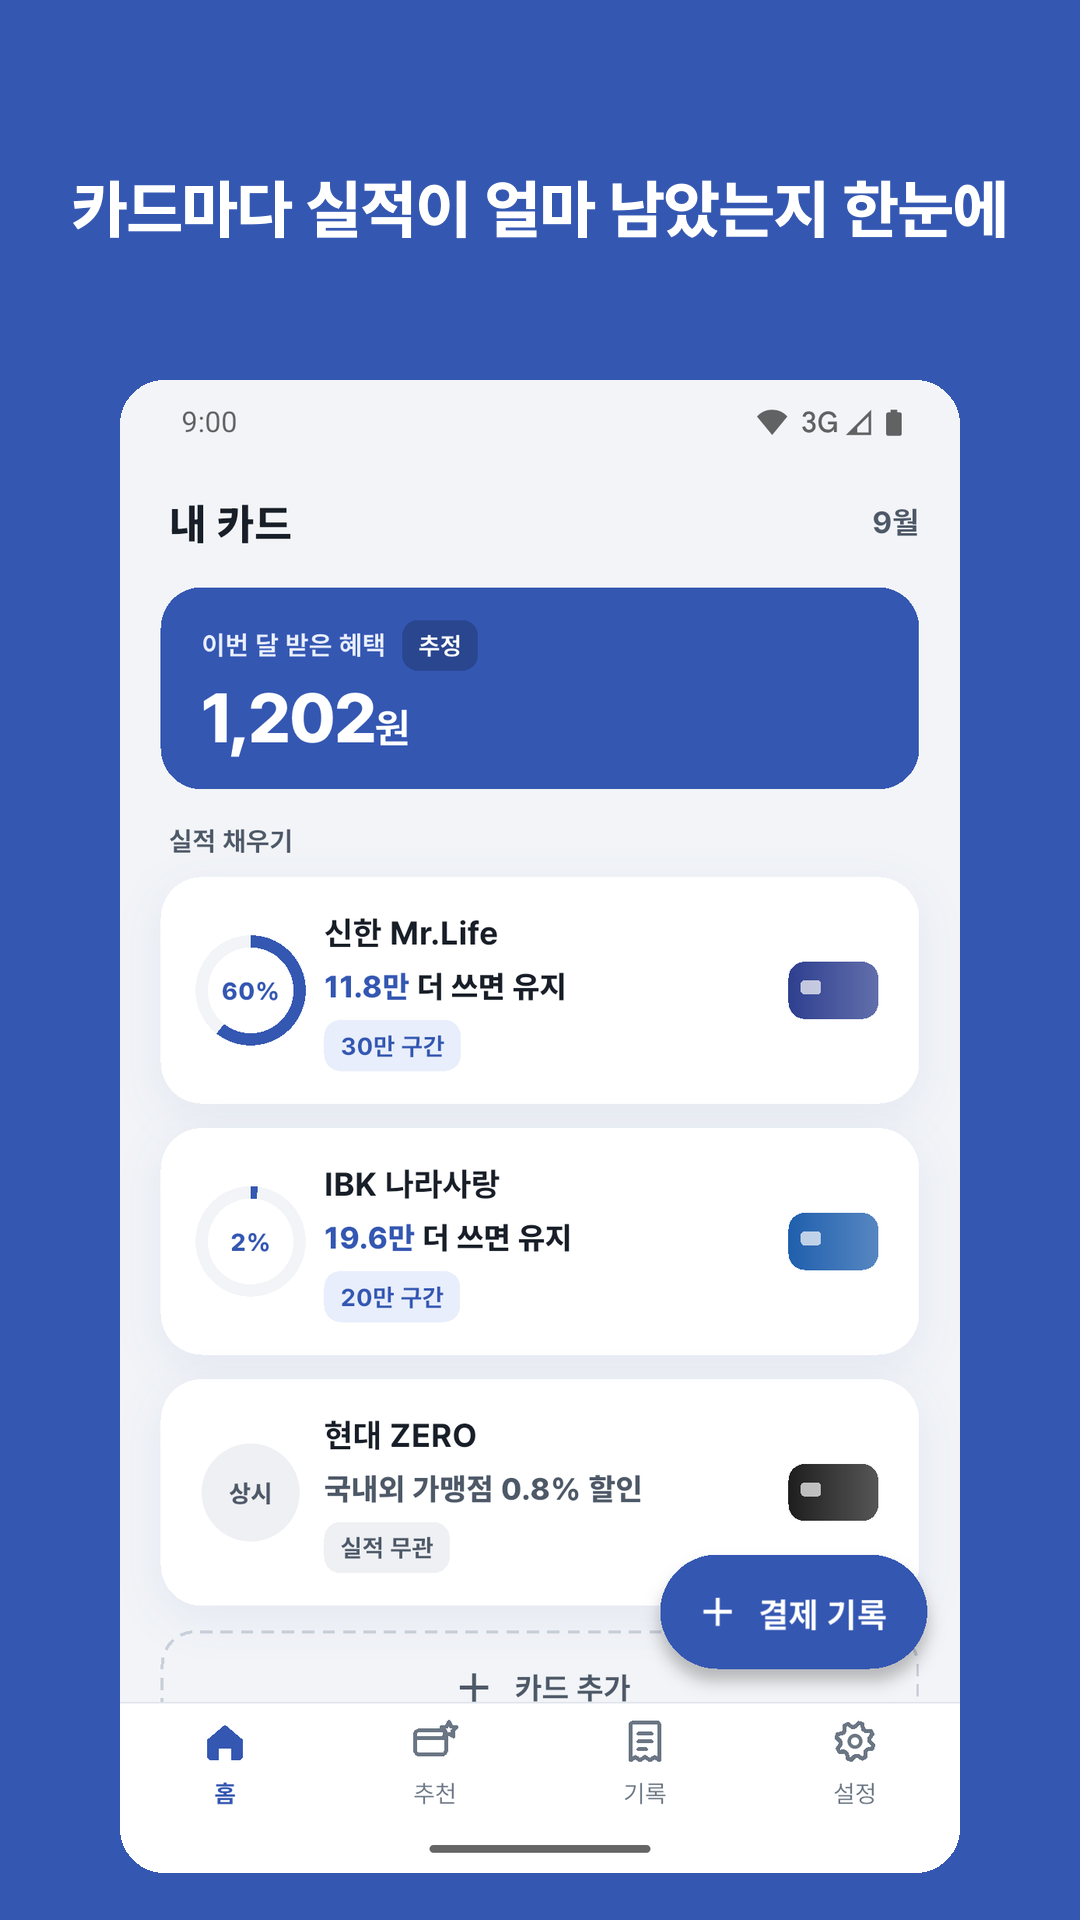
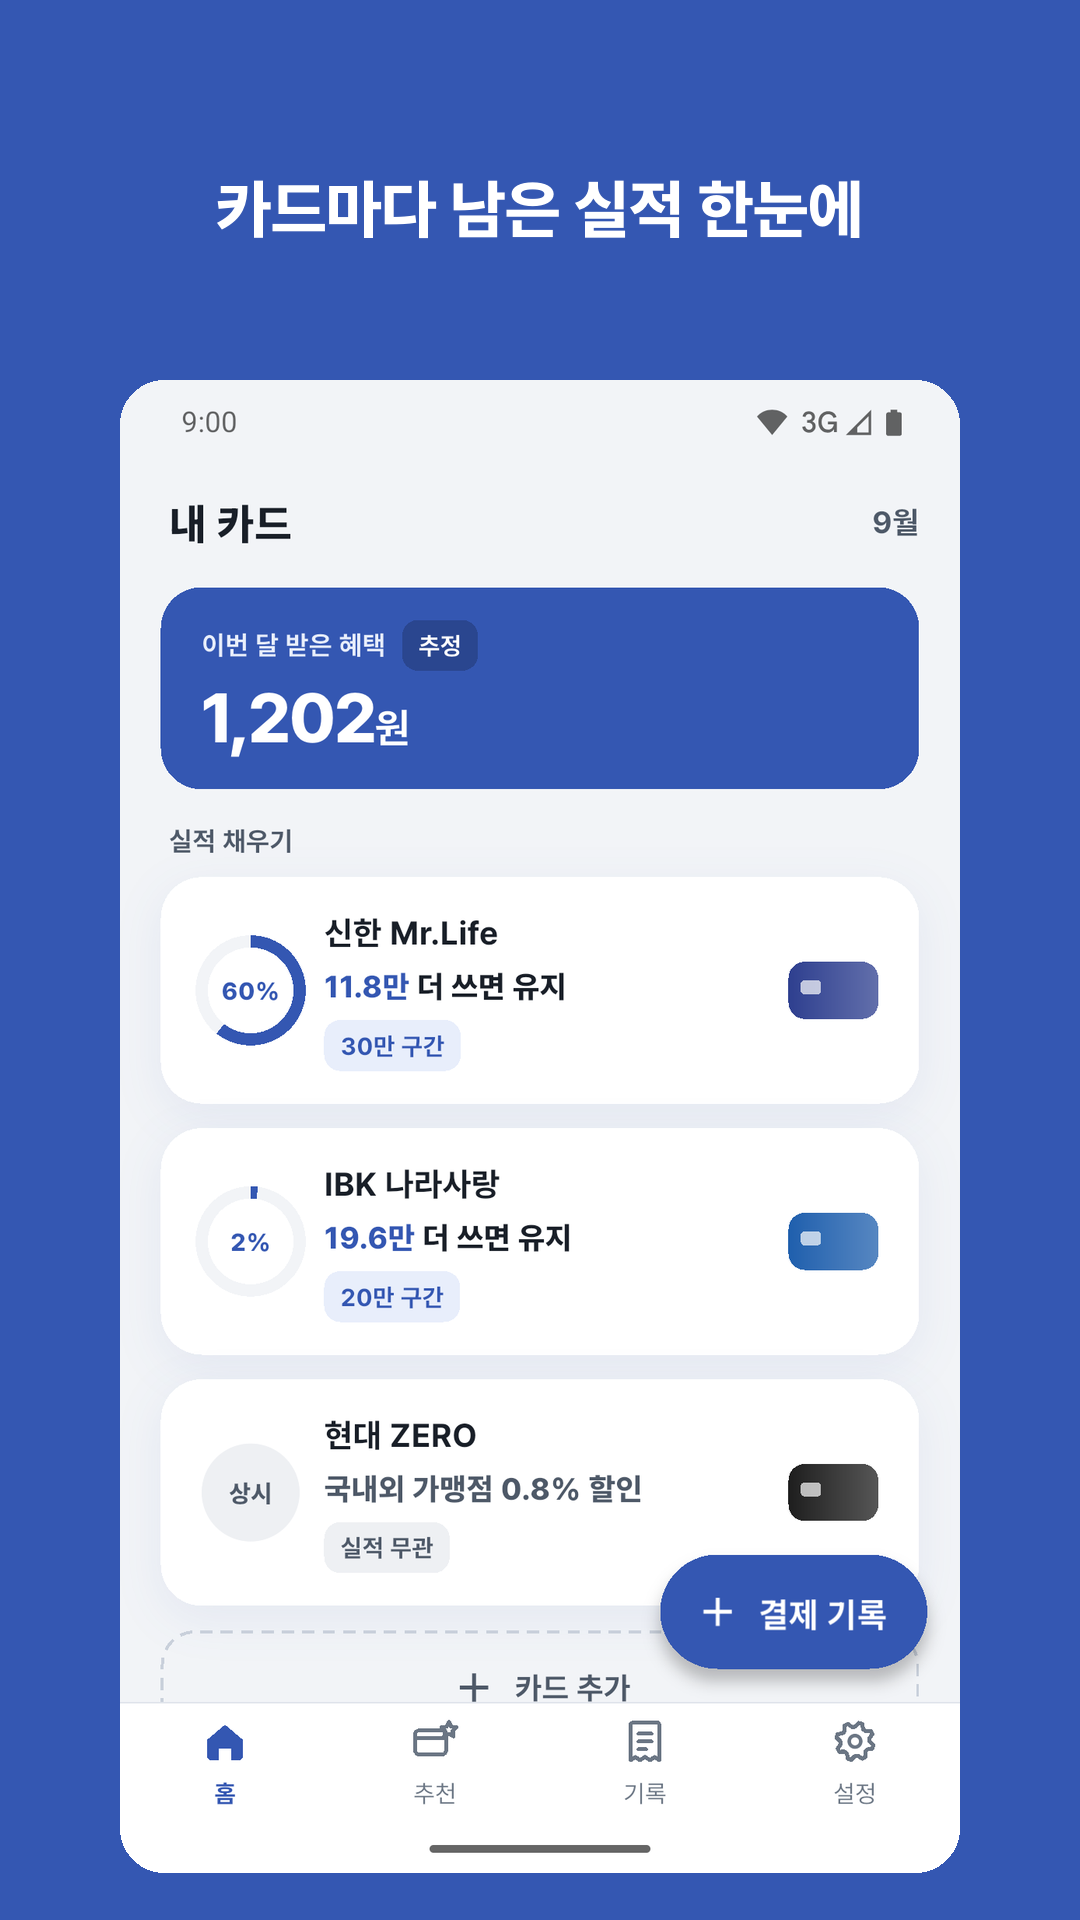
docs: 스토어 화면 문구를 같은 꼴로 다듬고 README 사진으로 쓰기
작업 012 설계 3절. 2026-10-06 사용자가 스토어 화면을 통일감 있게 다듬어
README에 쓰라고 했다. 여섯 장의 위쪽 문구 길이와 끝맺음이 들쭉날쭉해
12~15자, 명사 끝으로 맞추고 그림을 다시 만들었다. README는 옛 화면 사진
넉 장 대신 이 여섯 장을 두 줄로 보이고, 쓰지 않게 된 사진을 지웠다

Changed region(s): [[0.0611, 0.0938, 0.9472, 0.125]]

diff --git a/docs/work/012-android-release/design.md b/docs/work/012-android-release/design.md
@@ -161,16 +161,16 @@ Play에 새로 내는 앱은 APK가 아니라 앱 묶음 파일 `.aab`로 올린
 - 폰 홈 화면 아이콘: 지금 출시 앱은 Flutter 기본 로고다. 2026-10-05 단계 1에서 찾았다. 같은 그림과 크림색 바탕으로 바꾼다. Android 8 이상은 바탕색과 앞 그림을 나눈 적응형 아이콘이고 그 아래는 둥근 사각형 PNG다. 바탕색은 2026-10-05 사용자가 흰색, 크림, 연분홍, 앱 파란색 가운데 크림을 골랐다가, 같은 날 실제 폰에서 크림이 누렇게 보인다고 흰색으로 바꿨다. 앞 그림이 작아 보인다고 해 108dp 칸의 41%에서 55%로 키웠다. 그림의 불투명한 점이 지름 66dp 안전 영역에 드는 최대가 57%다
 - 기능 그래픽: 앱의 파란색 바탕에 아이콘, "체리컨슘", "카드 실적·혜택 계산기"를 둔다. 짧은 설명은 1024×500에 한 줄로 들어가지 않아 앱 이름 뒷부분을 쓴다
 - 스크린샷: 에뮬레이터 화면을 1080×1920으로 바꿔 다시 찍는다. 지금 사진 1080×2400은 긴 변이 짧은 변의 두 배를 넘는다. 홈, 카드 상세, 추천, 가게별 순위, 결제 기록, 기록 6장이다. 결제 내역은 지금처럼 지어낸 것이다
-- 스크린샷 모양: 파란 바탕 위쪽에 한 줄 문구를 두고 그 아래 화면을 넣는다. 문구가 길면 두 줄로 나눈다. 2026-10-05 사용자가 정했다. 문구 초안은 아래와 같다
+- 스크린샷 모양: 파란 바탕 위쪽에 한 줄 문구를 두고 그 아래 화면을 넣는다. 문구가 길면 두 줄로 나눈다. 2026-10-05 사용자가 정했다. 2026-10-06 사용자가 통일감 있게 다듬으라고 해, 첫 초안의 들쭉날쭉한 길이와 끝맺음을 12~15자, 명사 끝으로 맞췄다. 같은 날 README의 화면 사진도 이 여섯 장으로 바꿨다
 
-| 화면 | 문구 |
-|---|---|
-| 홈 | 카드마다 실적이 얼마 남았는지 한눈에 |
-| 카드 상세 | 구간과 한도를 카드사 규칙대로 |
-| 추천 | 업종마다 지금 가장 이득인 카드 |
-| 가게별 순위 | 이 가게에선 어느 카드가 이득인지 |
-| 결제 기록 | 저장하기 전에 받을 혜택을 미리 |
-| 기록 | 달마다 쓴 돈과 받은 혜택을 모아서 |
+| 화면 | 문구 | 첫 초안 |
+|---|---|---|
+| 홈 | 카드마다 남은 실적 한눈에 | 카드마다 실적이 얼마 남았는지 한눈에 |
+| 카드 상세 | 카드사 규칙 그대로인 구간과 한도 | 구간과 한도를 카드사 규칙대로 |
+| 추천 | 업종마다 가장 이득인 카드 | 업종마다 지금 가장 이득인 카드 |
+| 가게별 순위 | 이 가게에서 이득인 카드 순위 | 이 가게에선 어느 카드가 이득인지 |
+| 결제 기록 | 저장 전에 미리 보는 혜택 | 저장하기 전에 받을 혜택을 미리 |
+| 기록 | 달마다 쓴 돈과 받은 혜택 | 달마다 쓴 돈과 받은 혜택을 모아서 |
 
 그림과 글은 `docs/store/`에 두고, 크기와 글자 수는 검사 하나로 확인한다. 그림은 앱 글꼴 Cherry Sans로 Pillow 스크립트 하나가 그린다. 브라우저 없이 같은 그림이 다시 나온다.
 

diff --git a/README.md b/README.md
@@ -11,9 +11,8 @@
 ![Flutter](https://img.shields.io/badge/Flutter-3.44-02569B?logo=flutter&logoColor=white)
 ![Android](https://img.shields.io/badge/Android-%EB%A8%BC%EC%A0%80-3DDC84?logo=android&logoColor=white)
 
-| 홈 | 카드 상세 | 추천 | 가게별 순위 |
-|:---:|:---:|:---:|:---:|
-| <img src="docs/readme/home.png" width="180" alt="홈 화면"> | <img src="docs/readme/card.png" width="180" alt="카드 상세 화면"> | <img src="docs/readme/recommend.png" width="180" alt="추천 화면"> | <img src="docs/readme/result.png" width="180" alt="가게별 카드 순위 화면"> |
+<img src="docs/store/screens/1-home.png" width="250" alt="홈 화면. 카드마다 남은 실적"> <img src="docs/store/screens/2-card.png" width="250" alt="카드 상세 화면. 구간과 한도"> <img src="docs/store/screens/3-recommend.png" width="250" alt="추천 화면. 업종마다 가장 이득인 카드"><br>
+<img src="docs/store/screens/4-result.png" width="250" alt="가게별 카드 순위 화면"> <img src="docs/store/screens/5-payment.png" width="250" alt="결제 기록 화면. 저장 전에 보는 혜택"> <img src="docs/store/screens/6-history.png" width="250" alt="기록 화면. 달마다 쓴 돈과 받은 혜택">
 
 <sub>화면 사진의 결제 내역은 지어낸 것입니다</sub>
 

diff --git a/docs/store/listing.md b/docs/store/listing.md
@@ -56,9 +56,9 @@ https://limbs-han.github.io/CherryConsume/privacy/
 
 | 화면 | 문구 |
 |---|---|
-| 홈 | 카드마다 실적이 얼마 남았는지 한눈에 |
-| 카드 상세 | 구간과 한도를 카드사 규칙대로 |
-| 추천 | 업종마다 지금 가장 이득인 카드 |
-| 가게별 순위 | 이 가게에선 어느 카드가 이득인지 |
-| 결제 기록 | 저장하기 전에 받을 혜택을 미리 |
-| 기록 | 달마다 쓴 돈과 받은 혜택을 모아서 |
+| 홈 | 카드마다 남은 실적 한눈에 |
+| 카드 상세 | 카드사 규칙 그대로인 구간과 한도 |
+| 추천 | 업종마다 가장 이득인 카드 |
+| 가게별 순위 | 이 가게에서 이득인 카드 순위 |
+| 결제 기록 | 저장 전에 미리 보는 혜택 |
+| 기록 | 달마다 쓴 돈과 받은 혜택 |
